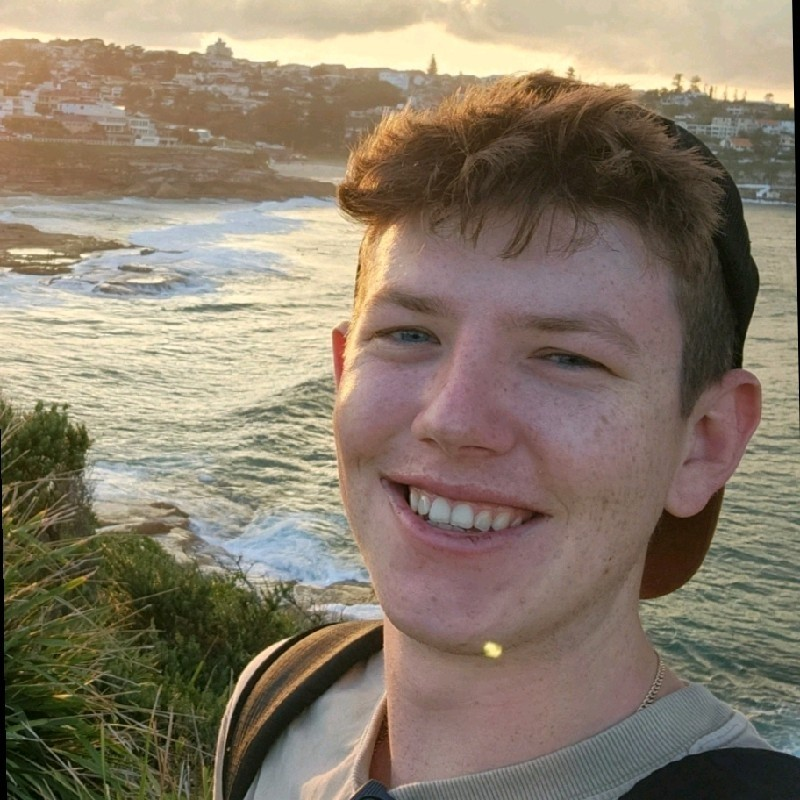
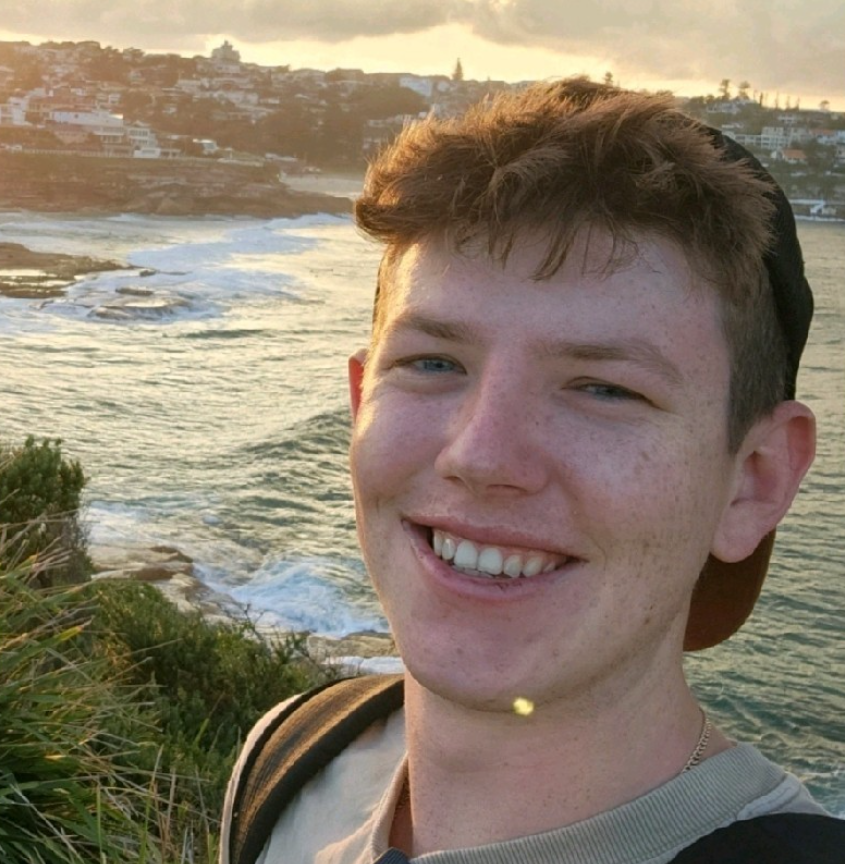
updated images

diff --git a/css/templatemo-style.css b/css/templatemo-style.css
@@ -402,7 +402,7 @@ a:hover, a:active, a:focus {
     background-position: 100% 100%;
     max-width: 100%;
     height: auto;
-    min-height: 50vh;
+    min-height: 40vh;
 }
 
 #about .about-thumb,
@@ -595,7 +595,7 @@ a:hover, a:active, a:focus {
 
 #contact .contact-img {
   background: url('../images/contact-img.jpg') no-repeat;
-  background-size: contain;
+  background-size: cover;
   background-position: bottom center;
   width: 100%;
   min-height: 75vh;
